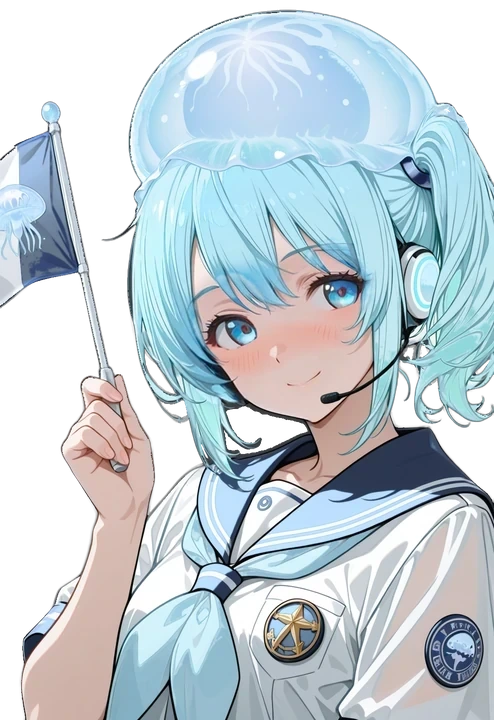
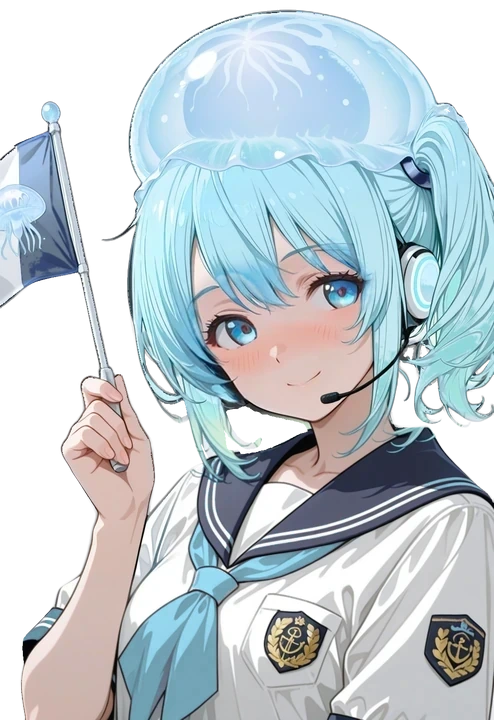
feat: 茜・瑠璃の立ち絵を設定画にそろえ、1章に一枚絵を2枚つなぐ (#75)
* feat: 茜と瑠璃の立ち絵6表情の服を設定画にそろえた

茜は胸元を首輪と鎖・交差した赤い紐に、瑠璃は紺の襟と透けないブラウスに直した (happy・fired は前から設定画どおり)。ART_VER を 7 に上げた。

Claude-Session: https://claude.ai/code/session_01NHRfgjidDocNqbrRDwuHGU

* feat: 1章に一枚絵を2枚つなぐ。瑠璃がパンフレットを差し出す場面と、外へ出た場面

art/still の c1_open・c1_join は前の瑠璃 (クラゲが頭の上に浮く、長袖) のままで、台本からも呼ばれていなかった。今の設定画の瑠璃で描き直し、「パンフレット、どうぞ！」と「外って、明るいんですね」の行に出す。

Claude-Session: https://claude.ai/code/session_01NHRfgjidDocNqbrRDwuHGU

---------

diff --git a/three-play.html b/three-play.html
@@ -4826,7 +4826,7 @@
       "./js3d/audio.js": "./js3d/audio.js?v=883c9531ac",
       "./js3d/avatar-boss-lines.js": "./js3d/avatar-boss-lines.js?v=507ebedfac",
       "./js3d/avatar-lines.js": "./js3d/avatar-lines.js?v=1a9e812365",
-      "./js3d/avatar.js": "./js3d/avatar.js?v=65c7f1e091",
+      "./js3d/avatar.js": "./js3d/avatar.js?v=0959f52741",
       "./js3d/backdrops.js": "./js3d/backdrops.js?v=90faf9612d",
       "./js3d/bgm-shop.js": "./js3d/bgm-shop.js?v=da2eff66b8",
       "./js3d/bgm.js": "./js3d/bgm.js?v=141d43939f",
@@ -4921,7 +4921,7 @@
       "./js3d/story-scenery.js": "./js3d/story-scenery.js?v=9fa267bcf9",
       "./js3d/story-ui.js": "./js3d/story-ui.js?v=10c3ec65fb",
       "./js3d/story-world.js": "./js3d/story-world.js?v=b988efe4ec",
-      "./js3d/story.js": "./js3d/story.js?v=2b069f5be6",
+      "./js3d/story.js": "./js3d/story.js?v=0fcdef06aa",
       "./js3d/support.js": "./js3d/support.js?v=efb00a908c",
       "./js3d/theme.js": "./js3d/theme.js?v=932e1d5eb8",
       "./js3d/tips.js": "./js3d/tips.js?v=3faae17957",
@@ -4954,7 +4954,7 @@
   <link rel="modulepreload" href="js3d/spectate.js?v=ed159bd7b8">
   <link rel="modulepreload" href="js3d/watchtools.js?v=ad10da8d17">
   <link rel="modulepreload" href="js3d/replays-ui.js?v=c76f859c99">
-  <link rel="modulepreload" href="js3d/avatar.js?v=65c7f1e091">
+  <link rel="modulepreload" href="js3d/avatar.js?v=0959f52741">
   <link rel="modulepreload" href="js3d/avatar-lines.js?v=1a9e812365">
   <link rel="modulepreload" href="js3d/motion.js?v=71cd68f8ff">
   <link rel="modulepreload" href="js3d/gacha.js?v=ecda5be85c">
@@ -4984,7 +4984,7 @@
   <link rel="modulepreload" href="js3d/equip.js?v=51faa70a25">
   <link rel="modulepreload" href="js3d/stats.js?v=5e9acbdde6">
   <link rel="modulepreload" href="js3d/stats-data.js?v=61334c9347">
-  <link rel="modulepreload" href="js3d/story.js?v=2b069f5be6">
+  <link rel="modulepreload" href="js3d/story.js?v=0fcdef06aa">
   <link rel="modulepreload" href="js3d/story-ui.js?v=10c3ec65fb">
   <link rel="modulepreload" href="js3d/story-world.js?v=b988efe4ec">
   <link rel="modulepreload" href="js3d/rewards.js?v=ef3a012bdb">

diff --git a/js3d/story.js b/js3d/story.js
@@ -292,8 +292,8 @@ export const CHAPTERS = [
       { id: 'c1-ruri', kind: 'scene', title: '案内係', lines: [
         L('ruri', 'ご来館のみなさまに、ご案内いたします。'),
         L('ruri', 'あっ、みなさま、ようこそ！ 順路はこちらです。', 'surprised'),
-        L('ruri', '案内係の瑠璃です。パンフレット、どうぞ！', 'happy'),
-        L('sys', '> 瑠璃からパンフレットを受け取った'),
+        { ...L('ruri', '案内係の瑠璃です。パンフレット、どうぞ！', 'happy'), still: 'c1_open' },
+        { ...L('sys', '> 瑠璃からパンフレットを受け取った'), still: null },
         L('ruri', 'おすすめは、クラゲの部屋です。ゆらゆらしてて、ずっと見ていられるんです。', 'happy'),
         L('shion', '……。'),
         L('ruri', 'あ、えっと……今日は、お休みかもしれません。'),
@@ -438,8 +438,8 @@ export const CHAPTERS = [
           ] }
         ],
         after: [
-          L('ruri', 'わあ、外って、明るいんですね。', 'surprised'),
-          L('ruri', 'いつか、クラゲがまだ泳いでいる水族館、見てみたいです。', 'shy'),
+          { ...L('ruri', 'わあ、外って、明るいんですね。', 'surprised'), still: 'c1_join' },
+          { ...L('ruri', 'いつか、クラゲがまだ泳いでいる水族館、見てみたいです。', 'shy'), still: null },
           L('shion', 'うん。私も。', 'happy'),
           L('ruri', 'では、お客さま。紫苑さん。行きたい所まで、ご案内します！', 'happy'),
           L('sys', '> 瑠璃が仲間になった'),

diff --git a/js3d/avatar.js b/js3d/avatar.js
@@ -105,7 +105,7 @@ const pick = (list) => list[Math.floor(Math.random() * list.length)];
 export const avatarIds = () => Object.keys(AVATARS).filter(id => !AVATARS[id].boss);
 /* 立ち絵の版。画像には版の印が付かないので、同じ名前で差し替えたらここを上げる (古い絵がしばらく出るのを防ぐ)。3 = 2026-10-01 頭の先まで入る枠で切り直し (E:SDSwarmUIOutputvatar_v2export_v4headroom.py) */
 /* 4 = 2026-10-05 4人の服と髪飾りを新デザインに寄せた (顔は前のまま。E:/SD/SwarmUI/Output/avatar_v2/export_v4/design_restyle.py) */
-export const ART_VER = 6;
+export const ART_VER = 7;
 /* 声の版。同じ名前で声を作り直したらここを上げる (古い声がしばらく鳴るのを防ぐ)。5 = 2026-10-02 読みの直し (止められ・上回・開いた・命) とセリフの差し替え */
 export const VOICE_VER = 9;
 /* 声の大きさをキャラどうしでそろえる。測った大きさ (ラウドネス、LUFS。ffmpeg の ebur128 の中央値) から、VOICE_TARGET へ合わせる倍率を出す。
